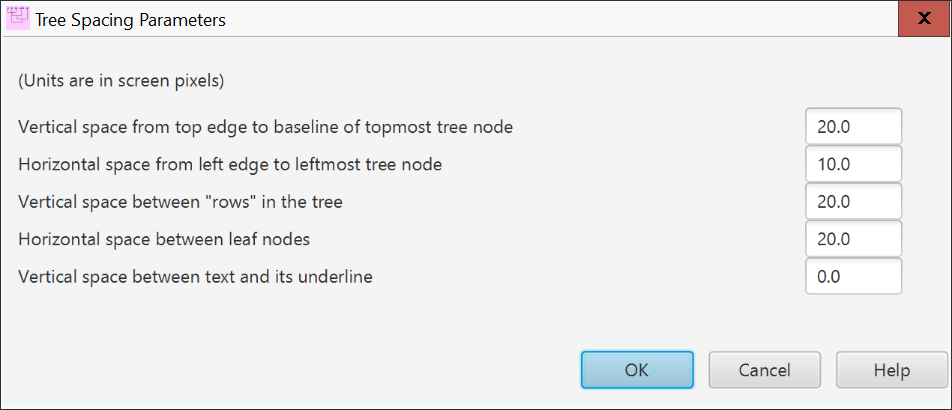
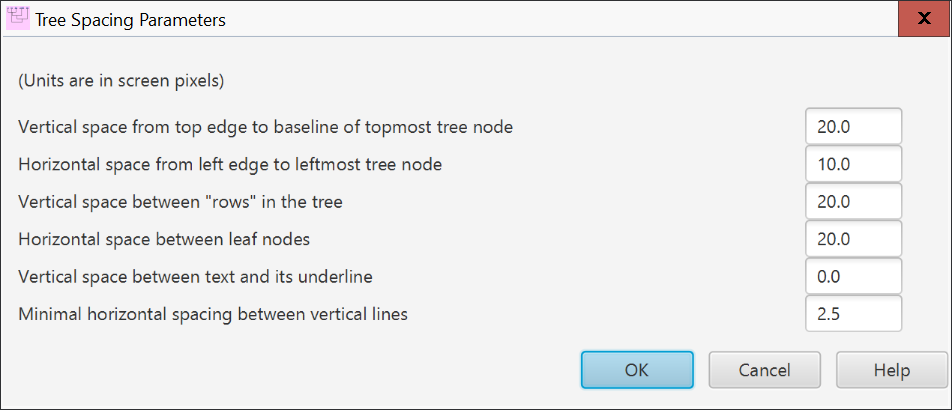
Add ability to control a minimal horizontal gap between vertical lines in an infix base

Changed region(s): [[0.0, 0.7317, 0.4265, 0.7902], [0.8529, 0.7317, 0.8834, 0.7902]]

diff --git a/src/org/sil/diagsap/ApplicationPreferences.java b/src/org/sil/diagsap/ApplicationPreferences.java
@@ -48,9 +48,11 @@ public class ApplicationPreferences extends ApplicationPreferencesUtilities {
 	static final String LEXICAL_FONT_TYPE = "lexicalFontType";
 	static final String LINE_COLOR = "lineColor";
 	static final String LINE_WIDTH = "lineWidth";
+	static final String MINIMAL_VERTICAL_GAP_BETWEEN_LINES = "minimalVerticalGap";
 	static final String SAVE_AS_PNG = "saveAsPng";
 	static final String SAVE_AS_SVG = "saveAsSVG";
 	static final String TEXT_UNDERLINE_GAP = "textUnderlineGap";
+	static final String USE_DASHED_LINES_FOR_SPLIT_INFIX_BASE = "usedashedlines";
 	static final String VERTICAL_GAP = "verticalGap";
 
 	Preferences prefs;
@@ -137,6 +139,14 @@ public class ApplicationPreferences extends ApplicationPreferencesUtilities {
 		setPreferencesKey(TREE_DESCRIPTION_FONT_SIZE, dSize);
 	}
 
+	public boolean getUseDashedLines() {
+		return prefs.getBoolean(USE_DASHED_LINES_FOR_SPLIT_INFIX_BASE, false);
+	}
+
+	public void setUseDashedLines(boolean fUseDashedLines) {
+		setPreferencesKey(USE_DASHED_LINES_FOR_SPLIT_INFIX_BASE, fUseDashedLines);
+	}
+
 	public Stage getLastWindowParameters(String sWindow, Stage stage, Double defaultHeight,
 			Double defaultWidth) {
 		Double value = prefs.getDouble(sWindow + HEIGHT, defaultHeight);
@@ -171,18 +181,20 @@ public class ApplicationPreferences extends ApplicationPreferencesUtilities {
 		setPreferencesKey(LAST_SPLIT_PANE_POSITION, position);
 	}
 
-	public void getSavedTreeParameters(DiagSapTree ltTree) {
-		ltTree.setHorizontalGap(prefs.getDouble(HORIZONTAL_GAP, 20));
-		ltTree.setInitialXCoordinate(prefs.getDouble(INITIAL_X_COORDINATE, 10));
-		ltTree.setInitialYCoordinate(prefs.getDouble(INITIAL_Y_COORDINATE, 20));
-		ltTree.setLineWidth(prefs.getDouble(LINE_WIDTH, 1));
-		ltTree.setSaveAsPng(prefs.getBoolean(SAVE_AS_PNG, false));
-		ltTree.setSaveAsSVG(prefs.getBoolean(SAVE_AS_SVG, true));
-		ltTree.setTextUnderlineGap(prefs.getDouble(TEXT_UNDERLINE_GAP, 0));
-		ltTree.setVerticalGap(prefs.getDouble(VERTICAL_GAP, 20));
+	public void getSavedTreeParameters(DiagSapTree dsTree) {
+		dsTree.setHorizontalGap(prefs.getDouble(HORIZONTAL_GAP, 20));
+		dsTree.setInitialXCoordinate(prefs.getDouble(INITIAL_X_COORDINATE, 10));
+		dsTree.setInitialYCoordinate(prefs.getDouble(INITIAL_Y_COORDINATE, 20));
+		dsTree.setLineWidth(prefs.getDouble(LINE_WIDTH, 1));
+		dsTree.setMinimalGapBetweenVerticalLines(prefs.getDouble(MINIMAL_VERTICAL_GAP_BETWEEN_LINES, 2.0));
+		dsTree.setSaveAsPng(prefs.getBoolean(SAVE_AS_PNG, false));
+		dsTree.setSaveAsSVG(prefs.getBoolean(SAVE_AS_SVG, true));
+		dsTree.setTextUnderlineGap(prefs.getDouble(TEXT_UNDERLINE_GAP, 0));
+		dsTree.setVerticalGap(prefs.getDouble(VERTICAL_GAP, 20));
+		dsTree.setUseDashedLinesForSplitInfixedBase(prefs.getBoolean(USE_DASHED_LINES_FOR_SPLIT_INFIX_BASE, false));
 
-		ltTree.setBackgroundColor(Color.web(prefs.get(BACKGROUND_COLOR, "#ffffff")));
-		ltTree.setLineColor(Color.web(prefs.get(LINE_COLOR, "#000000")));
+		dsTree.setBackgroundColor(Color.web(prefs.get(BACKGROUND_COLOR, "#ffffff")));
+		dsTree.setLineColor(Color.web(prefs.get(LINE_COLOR, "#000000")));
 
 		final String sDefaultFamily = "Arial";
 		final String sDefaultType = "Regular";
@@ -190,22 +202,24 @@ public class ApplicationPreferences extends ApplicationPreferencesUtilities {
 		FontInfo fontInfo = new FontInfo(prefs.get(LEXICAL_FONT_FAMILY, sDefaultFamily), prefs.getDouble(
 				LEXICAL_FONT_SIZE, 12), prefs.get(LEXICAL_FONT_TYPE, sDefaultType));
 		fontInfo.setColor(Color.web(prefs.get(LEXICAL_FONT_COLOR, sDefaultColor)));
-		ltTree.setLexicalFontInfo(fontInfo);
+		dsTree.setLexicalFontInfo(fontInfo);
 	}
 
-	public void setSavedTreeParameters(DiagSapTree ltTree) throws Exception {
-		setPreferencesKey(HORIZONTAL_GAP, ltTree.getHorizontalGap());
-		setPreferencesKey(INITIAL_X_COORDINATE, ltTree.getInitialXCoordinate());
-		setPreferencesKey(INITIAL_Y_COORDINATE, ltTree.getInitialYCoordinate());
-		setPreferencesKey(LINE_WIDTH, ltTree.getLineWidth());
-		setPreferencesKey(SAVE_AS_PNG, ltTree.isSaveAsPng());
-		setPreferencesKey(SAVE_AS_SVG, ltTree.isSaveAsSVG());
-		setPreferencesKey(TEXT_UNDERLINE_GAP, ltTree.getTextUnderlineGap());
-		setPreferencesKey(VERTICAL_GAP, ltTree.getVerticalGap());
+	public void setSavedTreeParameters(DiagSapTree dsTree) throws Exception {
+		setPreferencesKey(HORIZONTAL_GAP, dsTree.getHorizontalGap());
+		setPreferencesKey(INITIAL_X_COORDINATE, dsTree.getInitialXCoordinate());
+		setPreferencesKey(INITIAL_Y_COORDINATE, dsTree.getInitialYCoordinate());
+		setPreferencesKey(LINE_WIDTH, dsTree.getLineWidth());
+		setPreferencesKey(MINIMAL_VERTICAL_GAP_BETWEEN_LINES, dsTree.getMinimalGapBetweenVerticalLines());
+		setPreferencesKey(SAVE_AS_PNG, dsTree.isSaveAsPng());
+		setPreferencesKey(SAVE_AS_SVG, dsTree.isSaveAsSVG());
+		setPreferencesKey(TEXT_UNDERLINE_GAP, dsTree.getTextUnderlineGap());
+		setPreferencesKey(VERTICAL_GAP, dsTree.getVerticalGap());
+		setPreferencesKey(USE_DASHED_LINES_FOR_SPLIT_INFIX_BASE, dsTree.isUseDashedLinesForSplitInfixedBase());
 
-		setPreferencesKey(BACKGROUND_COLOR, ltTree.getBackgroundColor());
-		setPreferencesKey(LINE_COLOR, ltTree.getLineColor());
-		FontInfo fontInfo = ltTree.getLexicalFontInfo();
+		setPreferencesKey(BACKGROUND_COLOR, dsTree.getBackgroundColor());
+		setPreferencesKey(LINE_COLOR, dsTree.getLineColor());
+		FontInfo fontInfo = dsTree.getLexicalFontInfo();
 		setPreferencesKey(LEXICAL_FONT_COLOR, fontInfo.getColor());
 		setPreferencesKey(LEXICAL_FONT_FAMILY, fontInfo.getFontFamily());
 		setPreferencesKey(LEXICAL_FONT_SIZE, fontInfo.getFontSize());

diff --git a/src/org/sil/diagsap/service/TreeDrawer.java b/src/org/sil/diagsap/service/TreeDrawer.java
@@ -22,7 +22,7 @@ import org.sil.diagsap.model.DiagSapNode;
 import org.sil.diagsap.model.DiagSapTree;
 import org.sil.diagsap.model.InfixIndexBranch;
 import org.sil.diagsap.model.InfixedBaseBranch;
-import org.sil.lingtree.Constants;
+import org.sil.diagsap.Constants;
 import org.sil.lingtree.model.FontInfo;
 import org.sil.lingtree.model.LexFontInfo;
 import org.sil.utility.StringUtilities;
@@ -277,6 +277,12 @@ public class TreeDrawer {
 		double x;
 		int index = ifxIndex.getIndex();
 		InfixedBaseBranch base = infixedBaseBranches.get(index - 1);
+		x = calculateXMidOfInfix(base);
+		return x;
+	}
+
+	protected double calculateXMidOfInfix(InfixedBaseBranch base) {
+		double x;
 		Text infixTextBox = base.getInfixContent().getContentTextBox();
 		double width = infixTextBox.getBoundsInLocal().getWidth();
 		double x1 = infixTextBox.getX();
@@ -284,15 +290,27 @@ public class TreeDrawer {
 		return x;
 	}
 
-	protected double calculateXMidOfInfixedBase(InfixedBaseBranch infix) {
-		double x;
-		double xInitial = infix.getContentBefore().getContentTextBox().getX();
-		Text rightmostTextBox = (infix.getContentAfter() != null) ? infix.getContentAfter()
-				.getContentTextBox() : infix.getContentBefore().getContentTextBox();
+	protected double calculateXMidOfInfixedBase(InfixedBaseBranch base) {
+		double xInfixMid = calculateXMidOfInfix(base);
+		Text leftmostTextBox = base.getContentBefore().getContentTextBox();
+		double xInitial = leftmostTextBox.getX() + (leftmostTextBox.getBoundsInLocal().getWidth()/2);
+		Text rightmostTextBox = (base.getContentAfter() != null) ? base.getContentAfter()
+				.getContentTextBox() : base.getContentBefore().getContentTextBox();
 		double xFinal = rightmostTextBox.getX()
-				+ rightmostTextBox.getBoundsInLocal().getWidth();
-		x = (xInitial + xFinal) / 2;
-		return x;
+				+ (rightmostTextBox.getBoundsInLocal().getWidth())/2;
+		double xMid = (xInitial + xFinal) / 2;
+		if (base.getContentAfter() != null) {
+			double diff = xMid - xInfixMid;
+			double minimalGap = dsTree.getMinimalGapBetweenVerticalLines();
+			if (Math.abs(diff) < minimalGap) {
+				if (diff < 0) {
+					xMid = xMid - dsTree.getLineWidth() - minimalGap;
+				} else {
+					xMid = xMid + dsTree.getLineWidth() + minimalGap;
+				}
+			}
+		}
+		return xMid;
 	}
 
 	private double calculateXCoordinateOfContentMid(ContentBranch contentBranch) {

diff --git a/src/org/sil/diagsap/view/TreeSpacingParametersController.java b/src/org/sil/diagsap/view/TreeSpacingParametersController.java
@@ -38,6 +38,8 @@ public class TreeSpacingParametersController implements Initializable {
 	private TextField verticalGap;
 	@FXML
 	private TextField textUnderlineGap;
+	@FXML
+	private TextField minimalVerticalGapBetweenLines;
 
 	Stage dialogStage;
 	private boolean okClicked = false;
@@ -67,6 +69,7 @@ public class TreeSpacingParametersController implements Initializable {
 		horizontalGap.setTextFormatter(new TextFormatter<String>(filter));
 		verticalGap.setTextFormatter(new TextFormatter<String>(filter));
 		textUnderlineGap.setTextFormatter(new TextFormatter<String>(filter));
+		minimalVerticalGapBetweenLines.setTextFormatter(new TextFormatter<String>(filter));
 	}
 
 	/**
@@ -85,6 +88,7 @@ public class TreeSpacingParametersController implements Initializable {
 		horizontalGap.setText(String.valueOf(dsTree.getHorizontalGap()));
 		verticalGap.setText(String.valueOf(dsTree.getVerticalGap()));
 		textUnderlineGap.setText(String.valueOf(dsTree.getTextUnderlineGap()));
+		minimalVerticalGapBetweenLines.setText(String.valueOf(dsTree.getMinimalGapBetweenVerticalLines()));
 	}
 
 	public DiagSapTree getTree() {
@@ -119,6 +123,9 @@ public class TreeSpacingParametersController implements Initializable {
 		}
 		if (textUnderlineGap.getText().length() > 0) {
 			dsTree.setTextUnderlineGap(Double.valueOf(textUnderlineGap.getText()));
+		}
+		if (minimalVerticalGapBetweenLines.getText().length() > 0) {
+			dsTree.setMinimalGapBetweenVerticalLines(Double.valueOf(minimalVerticalGapBetweenLines.getText()));
 		}
 		okClicked = true;
 		dialogStage.close();

diff --git a/src/org/sil/diagsap/model/DiagSapTree.java b/src/org/sil/diagsap/model/DiagSapTree.java
@@ -31,9 +31,8 @@ public class DiagSapTree {
 	double dYSize; // total height of tree
 	double dTextUnderlineGap; // extra gap between text and its underline
 	double dVerticalGap; // extra gap between levels
-
-	double dHorizontalGap; // extra gap between leaf nodes
-
+	double dHorizontalGap; // extra gap between lexical forms
+	double dMinimalGapBetweenVerticalLines; // minimal space between consecutive vertical lines
 	FontInfo lexicalFontInfo;
 
 	Color backgroundColor;
@@ -54,6 +53,7 @@ public class DiagSapTree {
 		dVerticalGap = 20;
 		dHorizontalGap = 20;
 		dTextUnderlineGap = 2.5;
+		dMinimalGapBetweenVerticalLines = 2.0;
 		fUseDashedLinesForSplitInfixedBase = false;
 		fUseRightToLeftOrientation = false;
 		lexicalFontInfo = LexFontInfo.getInstance();
@@ -124,6 +124,15 @@ public class DiagSapTree {
 
 	public void setHorizontalGap(double dHorizontalGap) {
 		this.dHorizontalGap = dHorizontalGap;
+	}
+
+	@XmlElement(name = "minimalGapBetweenVerticalLines")
+	public double getMinimalGapBetweenVerticalLines() {
+		return dMinimalGapBetweenVerticalLines;
+	}
+
+	public void setMinimalGapBetweenVerticalLines(double dGap) {
+		this.dMinimalGapBetweenVerticalLines = dGap;
 	}
 
 	@XmlElement(name = "saveAsPng")

diff --git a/src/org/sil/diagsap/Constants.java b/src/org/sil/diagsap/Constants.java
@@ -24,7 +24,7 @@ public class Constants {
 	public static final String SVG_HEADER="<?xml version='1.0' standalone='no'?>\n" +
 			"<svg width='{0}' height='{1}' version='1.1' xmlns='http://www.w3.org/2000/svg' contentScriptType='text/javascript'>\n" +
 			"<script  id=\"clientEventHandlersJS\">\n" +
-			"function OnClickDoagSapNode(node){}\n" +
+			"function OnClickDiagSapNode(node){}\n" +
 			"</script>\n";
 	public static final String SVG_BACKGROUND_COLOR="<rect width=\"100%\" height=\"100%\" fill=\"{0}\"/>\n";
 	public static final String SVG_END_ELEMENT="</svg>\n";

diff --git a/src/org/sil/diagsap/service/TreeBuilder.java b/src/org/sil/diagsap/service/TreeBuilder.java
@@ -177,6 +177,7 @@ public class TreeBuilder {
 		dsTree.setSaveAsSVG(origTree.isSaveAsSVG());
 		dsTree.setVerticalGap(origTree.getVerticalGap());
 		dsTree.setTextUnderlineGap(origTree.getTextUnderlineGap());
+		dsTree.setMinimalGapBetweenVerticalLines(origTree.getMinimalGapBetweenVerticalLines());
 		dsTree.setUseDashedLinesForSplitInfixedBase(origTree.isUseDashedLinesForSplitInfixedBase());
 		dsTree.setUseRightToLeftOrientation(origTree.isUseRightToLeftOrientation());
 	}
